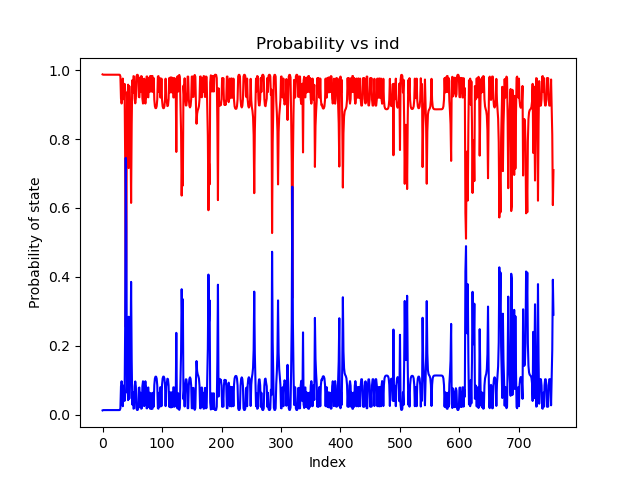
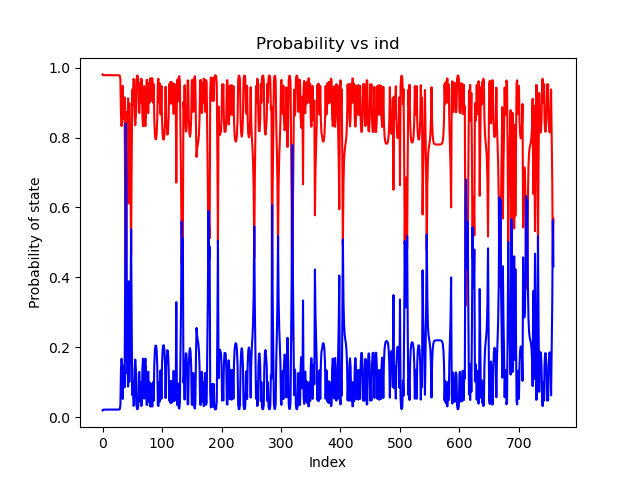
M-I step

diff --git a/parameters.py b/parameters.py
@@ -57,12 +57,13 @@ def unfold_params(params, nstates=2):
     Unfold 1d array of params into init and trans probs
     :param params: 1d array of init and trans probs
     :param nstates: number of states in the HMM
-    :return: init and trans probs
+    :return: init and trans probs as well as scale factor
     """
     init = params[:nstates]
     # emiss = params[nstates:nstates * 5].reshape((nstates, 4))
-    trans = params[nstates:].reshape((nstates, nstates))
-    return init, trans
+    trans = params[nstates:(nstates * (nstates + 1))].reshape((nstates, nstates))
+    scale = params[-1]
+    return init, trans, scale
 
 
 def forward(obs, trans_probs, init_probs, trees):
@@ -162,9 +163,10 @@ def getProb(params, nstates, seqlen, trees):
     :param seqlen: length of sequence
     :return: prob of seq given params
     """
-    init, trans = unfold_params(params, nstates=nstates)
+    init, trans, scale = unfold_params(params, nstates=nstates)
     p = 0
-    return -forward(seqlen, normalize(trans), normalize(init), trees)
+    new_trees = trees * scale
+    return -forward(seqlen, normalize(trans), normalize(init), new_trees)
 
 
 def optimize(seqlen, trees, nstates=2):
@@ -181,7 +183,7 @@ def optimize(seqlen, trees, nstates=2):
     guess = np.log(np.random.rand(num_params))
     # guess = np.log(np.array([0.5, 0.5, 0.13, 0.37, 0.37, 0.13,
     #                          0.32, 0.18, 0.18, 0.32, 0.95, 0.05, 0.05, 0.95]))
-    i, t = unfold_params(guess, nstates=nstates)
+    i, t, s = unfold_params(guess, nstates=nstates)
     i = np.log(np.ones(nstates) / nstates)
     i, t = normalize(i), normalize(t)
 
@@ -194,15 +196,16 @@ def optimize(seqlen, trees, nstates=2):
         [0.5, 0.5],
         [0.5, 0.5]
     ]))
+    s = 1.0 / trees[0].tot_branch_len()
 
-    guess = np.concatenate((i, np.ndarray.flatten(t)))
+    guess = np.concatenate((i, np.ndarray.flatten(t), [s]))
     res = minimize(getProb, guess, args=(nstates, seqlen, trees), method="BFGS",
                    options={"maxiter": 250, "disp": True})
     # bounds=([(np.NINF, 0)] * num_params))
-    i, t = unfold_params(res.x, nstates=nstates)
+    i, t, s = unfold_params(res.x, nstates=nstates)
     i, t = normalize(i), normalize(t)
-    print(forward(seqlen, t, i, trees))
-    return np.exp(i), np.exp(t)
+    print(forward(seqlen, t, i, (trees * s)))
+    return np.exp(i), np.exp(t), s
 
 
 def saveplot(probs, factor, smooth=False):
@@ -250,7 +253,7 @@ def main():
     args = parser.parse_args()
     data, data_len = read_data(args.f)
     cons = Node.from_str(args.c)
-    cons = cons * (1 / cons.tot_branch_len())
+    # cons = cons * (1 / cons.tot_branch_len())
     print(cons.tot_branch_len())
     cons.setData(data, data_len)
     if not args.nc:
@@ -265,10 +268,11 @@ def main():
     ]))
     trees = np.array([cons, non_cons])
 
-    init, trans = optimize(data_len, trees)
+    init, trans, s = optimize(data_len, trees)
     print(init)
     print(trans)
-    F, l_f, B, l_b, R = forward_backward(data_len, trans, init, trees)
+    print(s)
+    F, l_f, B, l_b, R = forward_backward(data_len, trans, init, trees * s)
     saveplot(R, args.mul)
 
 

diff --git a/tree.py b/tree.py
@@ -3,6 +3,7 @@ File to store data on phylogenetic trees
 """
 import re
 import numpy as np
+from scipy.optimize import minimize
 
 
 def read_data(filename):
@@ -291,4 +292,16 @@ class Node:
         for a in range(num_b):
             for b in range(num_b):
                 out += self.E_abij[a, b, i, j] * (np.log(self.jcm(bases[a], bases[b], t) - np.log(0.25)))
+        return out
+
+    def findW(self):
+        n = self.size()
+        out = np.zeros((n, n))
+        for i in range(n):
+            for j in range(n):
+                res = minimize(self.L_local, np.array([0.0]),
+                               args=(i, j),
+                               method="BFGS",
+                               options={"maxiter": 250, "disp": False})
+                out[i, j] = res.x[0]
         return out

diff --git a/test.py b/test.py
@@ -46,13 +46,8 @@ t_prim = Node.from_str(primates2)
 # d_prim, l_prim = read_data("Data/HI1-Compiled.txt")
 t_prim.setData(d_prim, l_prim)
 t_prim.E(l_prim)
-n = t_prim.size()
-Ll = np.zeros((n, n))
-for i in range(n):
-    for j in range(n):
-        res = minimize(t_prim.L_local, np.array([0.0]), args=(i, j), method="BFGS",
-                       options={"maxiter": 250, "disp": True})
-        Ll[i, j] = res.x[0]
+W = t_prim.findW()
+
 # branch_lengths = np.array(
 #     [[0.07517, 0.03059, 0.03161, 0.11761, 0.14289],
 #      [0.20843, 0.03397, 0.03497, 0.24952, 0.00000],
